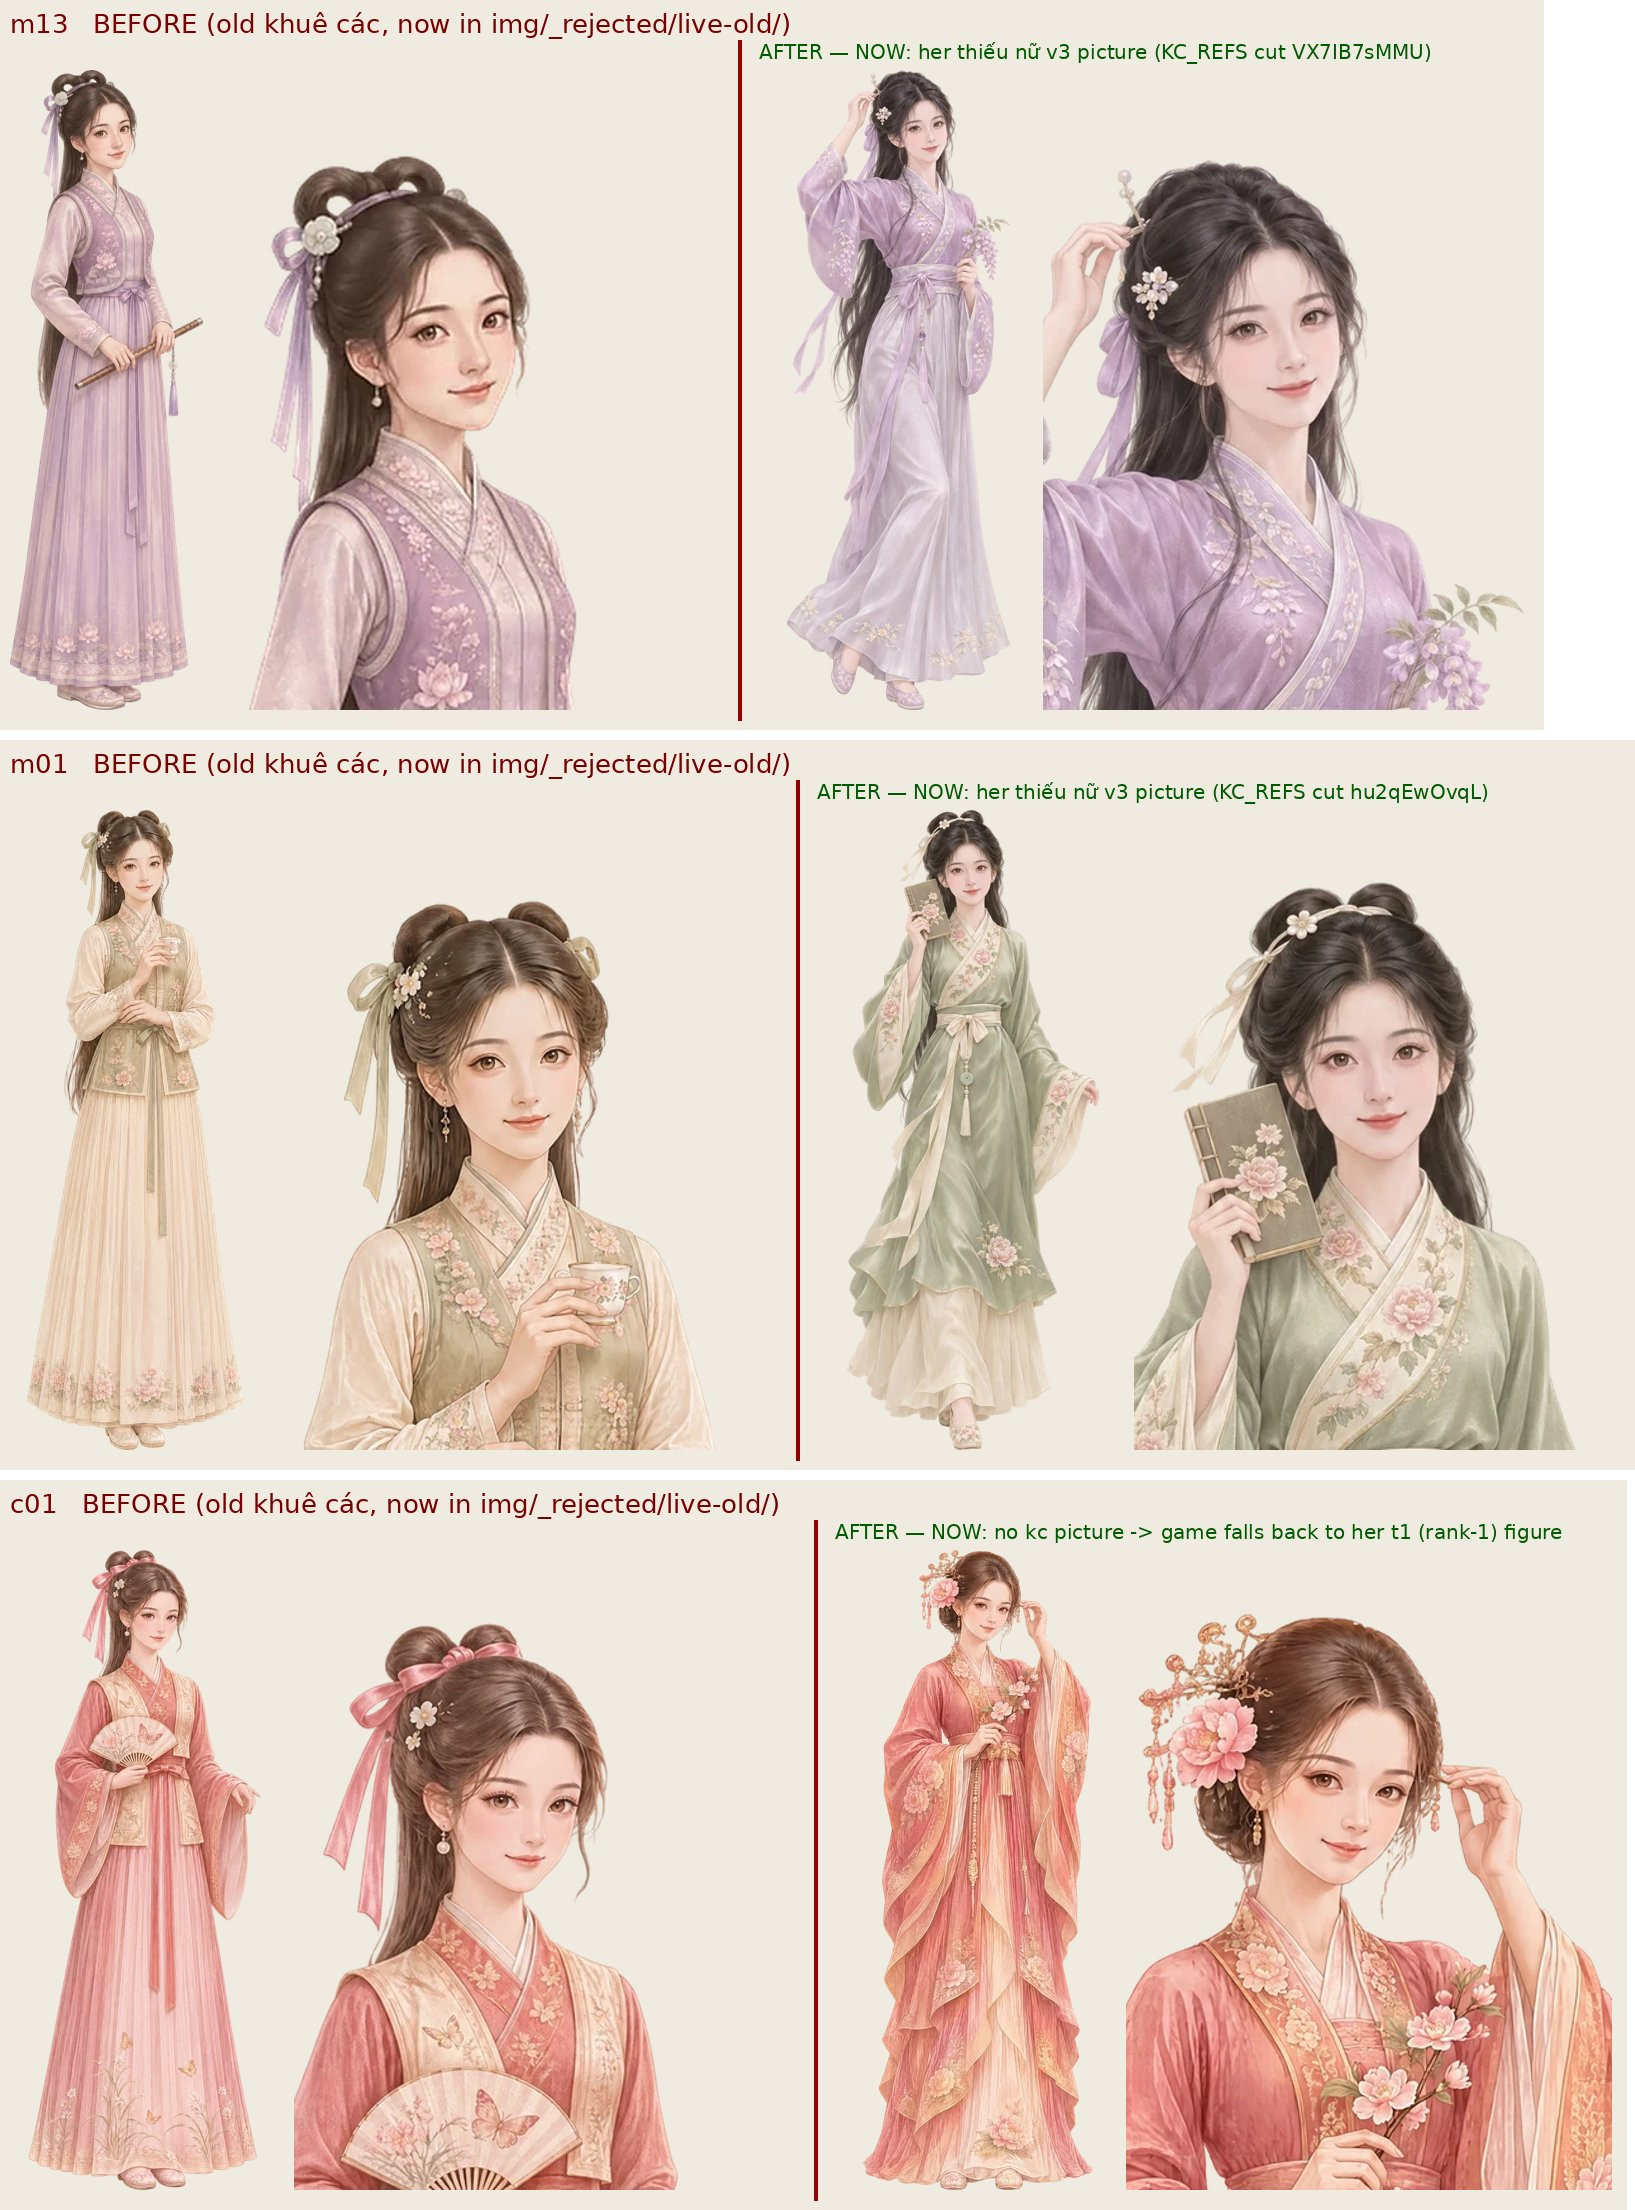
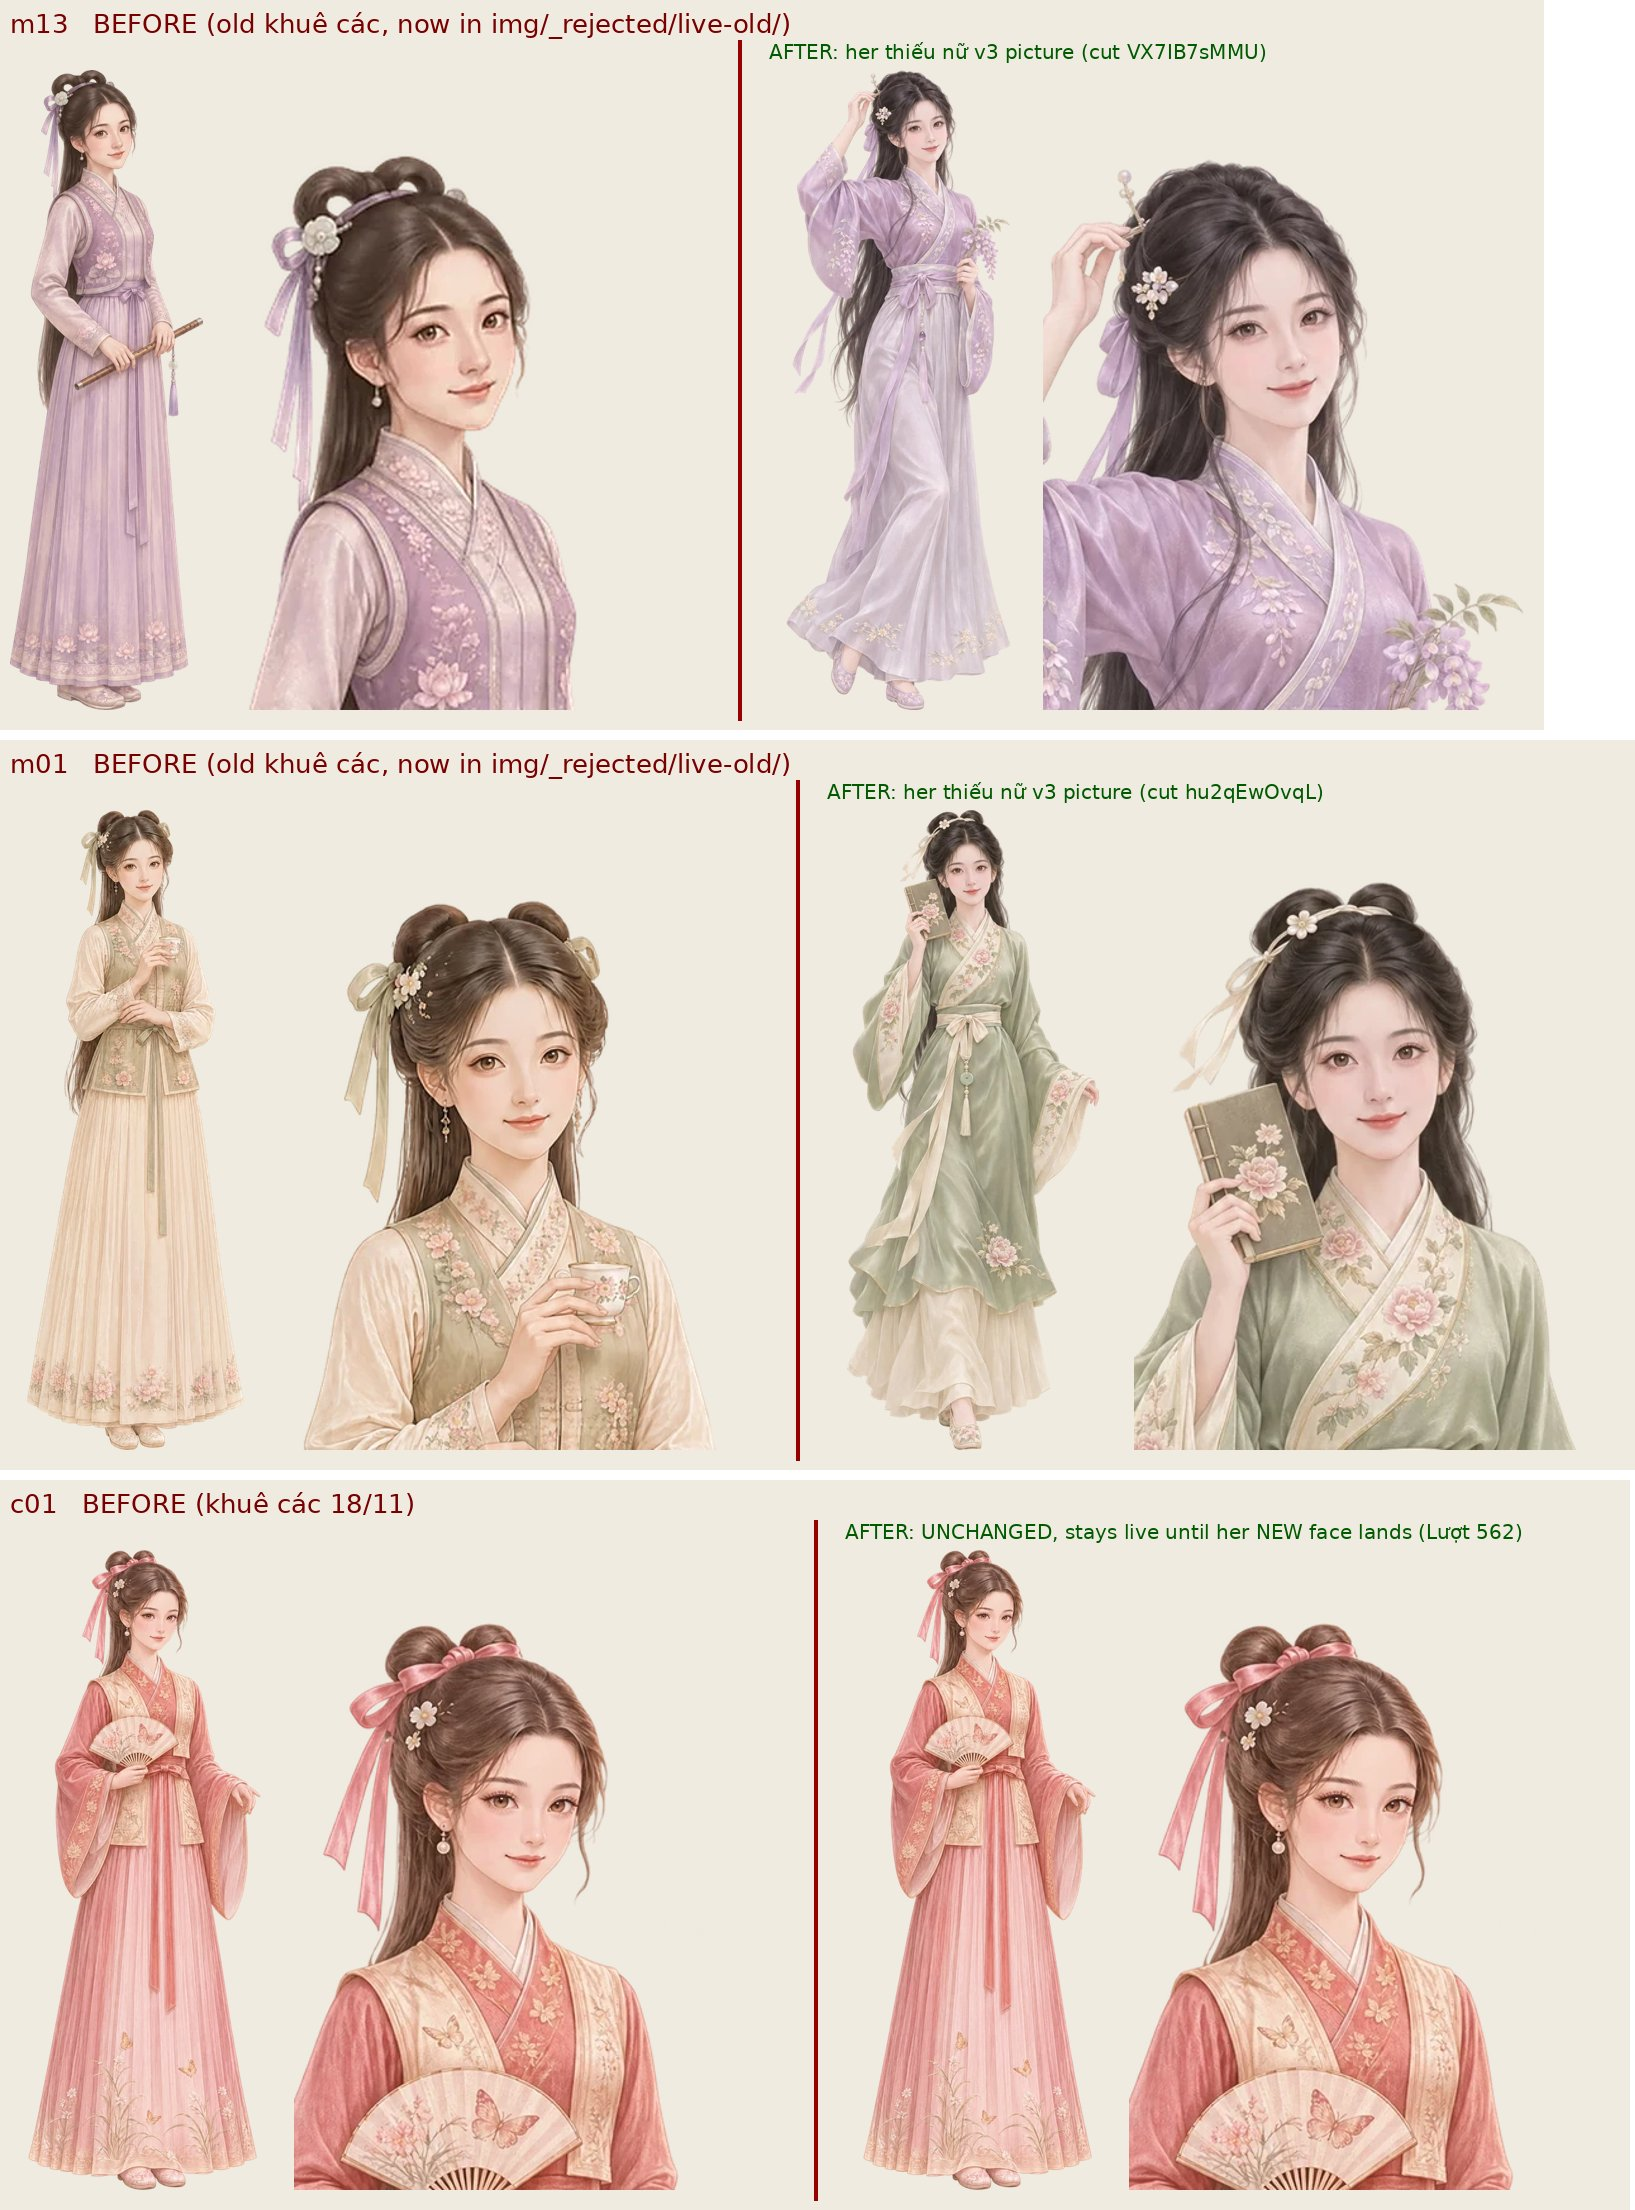
LV1: consort c01–c32 kc restored per ROOT-50/51 (Lượt 562); maid keep rows re-measured
Claude-Session: https://claude.ai/code/session_01PEhRbuL7X6M1YcP39aBCSo

diff --git a/dev/handover/reports/lv1-tools/restore.py b/dev/handover/reports/lv1-tools/restore.py
@@ -1,0 +1,15 @@
+import sys,json,hashlib,urllib.request,time,concurrent.futures as cf
+sys.path.insert(0,"/home/user/wt/lv/dev/site"); import cdn_sync as C
+B={l.split()[0]:l.split()[1] for l in open("bk_md5.txt")}
+K=[k for k in B if "-consort-c" in k]
+def get(k):
+    for i in range(6):
+        try: return urllib.request.urlopen(urllib.request.Request(C.PUBLIC+k,headers={"Cache-Control":"no-cache","User-Agent":"x"}),timeout=120).read()
+        except Exception: time.sleep(2*(i+1))
+def one(k):
+    b=get("img/_rejected/live-old/"+k[4:]); m=hashlib.md5(b).hexdigest()
+    if m!=B[k]: return "MD5 "+k
+    return "ok" if C.put(k,b)==m else "ETAG "+k
+print(len(K))
+with cf.ThreadPoolExecutor(6) as ex: R=list(ex.map(one,K))
+print({r for r in R if r!="ok"}, sum(r=="ok" for r in R))

diff --git a/dev/handover/reports/lv1-kc-swap.md b/dev/handover/reports/lv1-kc-swap.md
@@ -29,6 +29,19 @@ Sheet: dev/handover/review-sheets/live/kc_swap.jpg (m13, m01, c01 before | after
 2. Repo copies on main are now stale for these names: dev/art/mkfit/{consort-*,maid-*}.json + md5.json, dev/art/headtop/fig-ht.json, dev/art/toil-fit*.json — pull from CDN (img/mk-fit/*, img/fig-ht.json, img/toil-fit2.json) when next landing.
 3. Comment in the kc home-dress block ("r2: the CDN list now also has a26/a36/a51 khuê các dresses") is out of date; consort kc art is gone → t1 fallback (owner may want a new home dress later = new gens, not LV1).
 
+
+## CORRECTION 19/11 ~20:05Z — consort kc RESTORED (ROOT-50 msg 18:45Z Lượt 562 + ROOT-51 18:52Z reached LV1 only at 19:13Z, after the removal)
+Order: "c01–c32 kc keys — do NOT remove yet; list them as 'archive when new faces land'". Done:
+- 291 consort kc files (128 fig + 35 hd + 128 por) copied back from img/_rejected/live-old/ to their live paths, md5 = the backed-up originals (restore.py). The copies in _rejected/live-old/ stay.
+- FIGURES-kc.json 136 → 264: 128 consort kc rows rebuilt (role/identity/tier/ageBand/palette/file/por; the old magnificUrl/bg ids were lost with the edit; sheet = "restored … archive when the new c01–c32 faces land"). FIGURES-hd.json +35 consort kc hd entries (4180). Guard PASS, URLs 200.
+- Fit rows of the 256 consort kc fig/por re-measured on the restored files: POR_FACE2, fig-ht, mk-fit + md5, veil/scar/keep (256 keep rows, 0 implausible); toil-fit/toil-fit2 64 rows restored from main's repo copy, fixtoil = 0 changes.
+- LOST (no tool, no backup): FIGLIGHT rows of 127 consort kc names and face-fit (outliers only) rows of 21 → the game uses its default skin light / face polygon on those until re-measured.
+- Fixed my own earlier mistake: the 104 maid keep-fit rows had been measured against the OLD veil rows; re-measured against the new ones (104 rows, 0 implausible, was 92 + 12 missing).
+- Still REMOVED (per the order "m01–m52 old kc → set-B swap"): maid kc a26/a36/a51 (156 rows; files in _rejected/live-old/). Maid age 26+ at home shows her a18 v3 picture.
+- ARCHIVE WHEN NEW FACES LAND: consort c01–c32 kc a18/a26/a36/a51 = 128 rows / 291 files (and every other c01–c32 picture, owner Lượt 562).
+- FOR MAIN floor (replaces item 1 above): FIGURES-kc floor → {"consort|kc":128,"consort|ngheo":32,"maid|kc":52,"maid|ngheo":52}, n 264.
+- What the game shows now: consorts at home = their 18/11 khuê các as before; maids = thiếu nữ v3.
+
 ## STEP 2 — REPORT ONLY: other live figure sets older than the current approved recipes (nothing changed)
 Counts = manifest rows (each row = fig + por [+ hd]); "ids" = people.
 | # | live set (manifest) | rows | status vs approved recipe |
